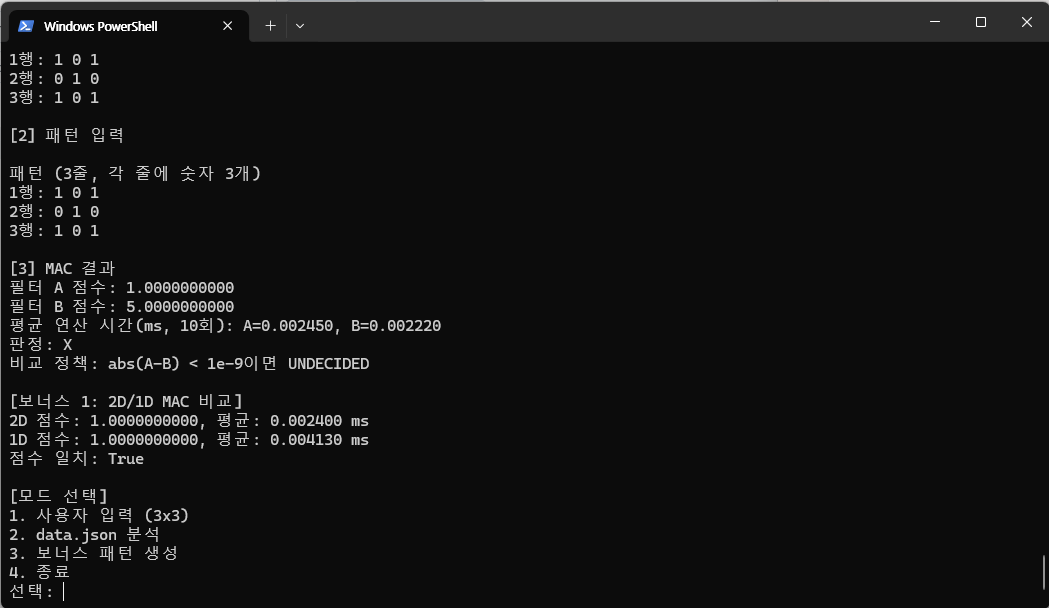
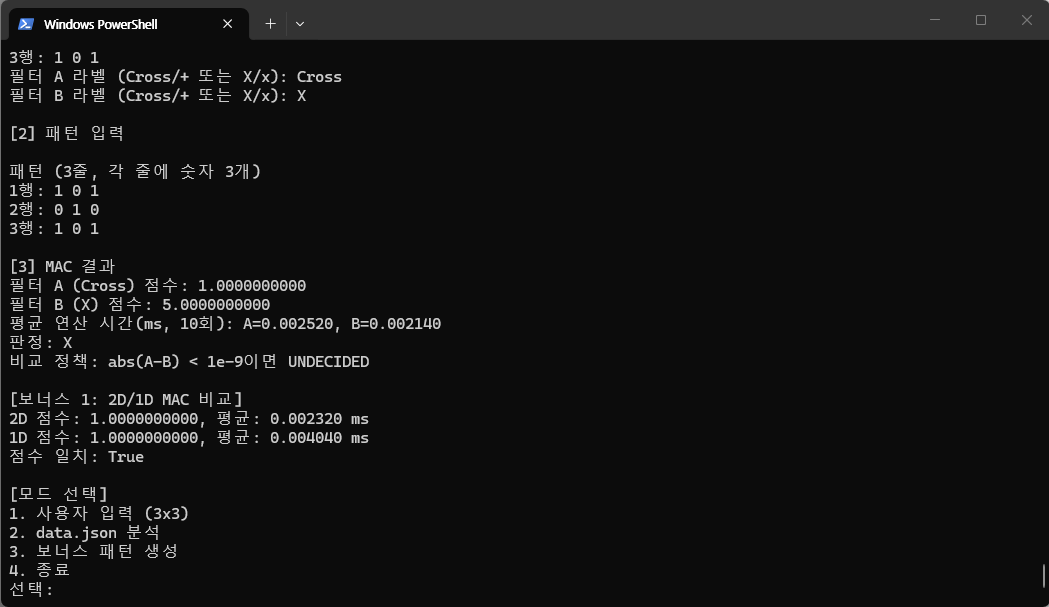
Fix: 동점 집계와 사용자 라벨 출력 보완

diff --git a/main.py b/main.py
@@ -6,6 +6,8 @@ import time
 from pathlib import Path
 
 
+# 1e-9은 일반적인 부동소수점 누적 오차를 허용하면서 실제 점수 차이는
+# 구분하기 위한 절대 허용오차입니다. 값의 규모가 크게 달라지면 조정할 수 있습니다.
 EPSILON = 1e-9
 MEASURE_REPEATS = 10
 DATA_FILE = Path("data.json")
@@ -22,6 +24,17 @@ def normalize_label(label):
     if value in ("x",):
         return "X"
     return None
+
+
+def read_label(name):
+    while True:
+        value = input(f"{name} 라벨 (Cross/+ 또는 X/x): ").strip()
+        normalized = normalize_label(value)
+
+        if normalized is not None:
+            return normalized
+
+        print("라벨 입력 오류: Cross, +, X, x 중 하나를 입력해주세요.")
 
 
 def validate_matrix(matrix, size, name="행렬"):
@@ -67,6 +80,7 @@ def read_matrix(size, name):
             return matrix
         except ValueError as error:
             print(f"입력 형식 오류: {error}")
+            print(f"예시: {' '.join(['0'] * size)}")
             print("행렬 전체를 다시 입력해주세요.")
 
 
@@ -101,6 +115,7 @@ def classify(score_a, score_b):
 
 
 def measure_average_ms(function, repeats=MEASURE_REPEATS):
+    """I/O를 제외하고 MAC 함수 호출 구간만 반복 측정합니다."""
     elapsed_times = []
 
     for _ in range(repeats):
@@ -137,24 +152,34 @@ def run_user_mode():
     print("\n[1] 필터 입력")
     filter_a = read_matrix(3, "필터 A")
     filter_b = read_matrix(3, "필터 B")
+    label_a = read_label("필터 A")
+    label_b = read_label("필터 B")
 
     print("\n[2] 패턴 입력")
     pattern = read_matrix(3, "패턴")
 
     score_a = mac_score(pattern, filter_a)
     score_b = mac_score(pattern, filter_b)
-    decision = classify(score_a, score_b)
+    raw_decision = classify(score_a, score_b)
+    decision = raw_decision
+    if raw_decision == "Cross":
+        decision = label_a
+    elif raw_decision == "X":
+        decision = label_b
     time_a = measure_average_ms(lambda: mac_score(pattern, filter_a))
     time_b = measure_average_ms(lambda: mac_score(pattern, filter_b))
 
     print("\n[3] MAC 결과")
-    print(f"필터 A 점수: {score_a:.10f}")
-    print(f"필터 B 점수: {score_b:.10f}")
+    print(f"필터 A ({label_a}) 점수: {score_a:.10f}")
+    print(f"필터 B ({label_b}) 점수: {score_b:.10f}")
     print(
         f"평균 연산 시간(ms, {MEASURE_REPEATS}회): "
         f"A={time_a:.6f}, B={time_b:.6f}"
     )
-    print(f"판정: {decision}")
+    if raw_decision == "UNDECIDED":
+        print("판정: 판정 불가 (UNDECIDED, 사용자 모드에서는 PASS/FAIL 집계 없음)")
+    else:
+        print(f"판정: {decision}")
     print("비교 정책: abs(A-B) < 1e-9이면 UNDECIDED")
 
     run_optimization_demo(pattern, filter_a)
@@ -218,7 +243,9 @@ def analyze_json_mode():
     total = 0
     passed = 0
     failed = 0
+    undecided = 0
     failures = []
+    failure_types = {}
     performance_inputs = {}
 
     print("\n[1] JSON 필터·패턴 분석")
@@ -263,6 +290,9 @@ def analyze_json_mode():
             decision = classify(cross_score, x_score)
             result = "PASS" if decision == expected else "FAIL"
 
+            if decision == "UNDECIDED":
+                undecided += 1
+
             print(f"Cross 점수: {cross_score:.10f}")
             print(f"X 점수: {x_score:.10f}")
             print(f"판정: {decision} | expected: {expected} | {result}")
@@ -277,10 +307,16 @@ def analyze_json_mode():
             else:
                 failed += 1
                 reason = f"판정 {decision}, expected {expected}"
+                failure_types["동점(UNDECIDED)"] = (
+                    failure_types.get("동점(UNDECIDED)", 0) + 1
+                )
 
         except (TypeError, ValueError, KeyError) as error:
             failed += 1
             reason = str(error)
+            failure_types["데이터/스키마 오류"] = (
+                failure_types.get("데이터/스키마 오류", 0) + 1
+            )
             print(f"{case_key}: FAIL - {reason}")
 
         if reason:
@@ -292,6 +328,12 @@ def analyze_json_mode():
     print(f"총 테스트: {total}개")
     print(f"통과: {passed}개")
     print(f"실패: {failed}개")
+    print(f"UNDECIDED: {undecided}개")
+
+    if failure_types:
+        print("실패 유형별 집계:")
+        for failure_type, count in failure_types.items():
+            print(f"- {failure_type}: {count}개")
 
     if failures:
         print("실패 케이스:")
